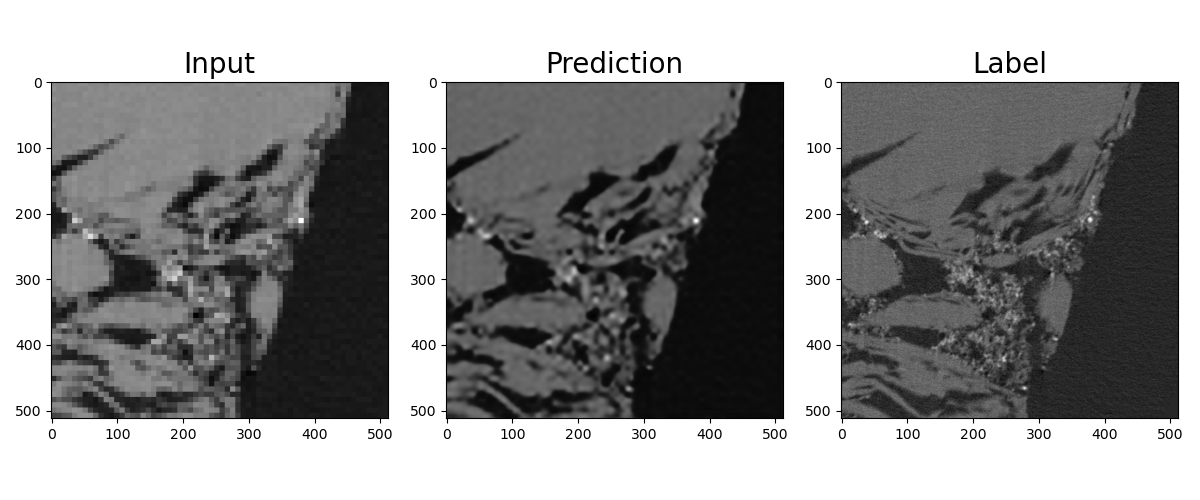
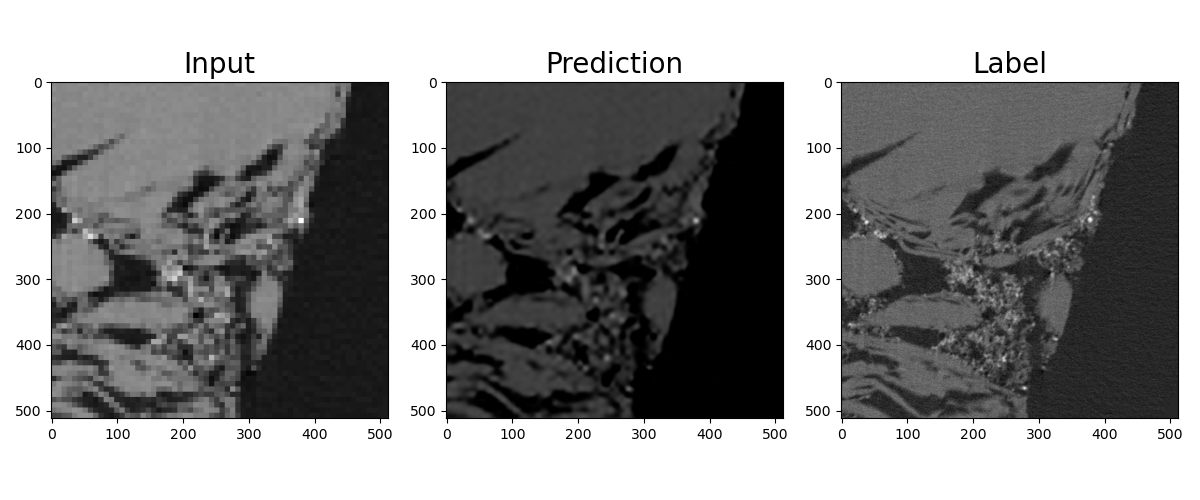
Update and clear the unused package

Changed region(s): [[0.37, 0.15, 0.6167, 0.84]]

diff --git a/utilities.py b/utilities.py
@@ -2,8 +2,7 @@ import os
 import torch 
 import torch.nn as nn
 import matplotlib.pyplot as plt
-import hydra
-from omegaconf import DictConfig, ListConfig, OmegaConf
+from omegaconf import DictConfig, OmegaConf
 import lightning as L
 from lightning.pytorch.callbacks import Callback
 
@@ -91,7 +90,9 @@ def plot_img(predictions, pred_dataloader):
             pred.append(img)
 
     input, label = prepare_data.check_dataloader(pred_dataloader)
-
+    
+    vmin = 0.2
+    vmax = 0.9
     if len(pred) == len(input):
         for i in range(len(pred)):
             
@@ -100,7 +101,7 @@ def plot_img(predictions, pred_dataloader):
             ax[0].imshow(input[i], cmap='gray')
             title = ax[0].set_title('Input')
             title.set_fontsize(20)
-            ax[1].imshow(pred[i], cmap='gray')
+            ax[1].imshow(pred[i], cmap='gray', vmin = vmin, vmax = vmax)
             title = ax[1].set_title('Prediction')
             title.set_fontsize(20)
             ax[2].imshow(label[i], cmap='gray')

diff --git a/prediction.py b/prediction.py
@@ -1,17 +1,5 @@
-import os
-import torch
-import torch.nn as nn
-import torch.optim as optim
-import torch.utils.data as data_utils
-from torch.utils.data import DataLoader
 import pytorch_lightning as L
-from omegaconf import DictConfig, ListConfig, OmegaConf
-from loguru import logger
-import matplotlib.pyplot as plt
-import time
 
-from torchvision import transforms
-from typing import Any, Tuple, Union, List, Sequence
 
 from source.BaseDataset import *
 from source.data_utils import *
@@ -27,7 +15,7 @@ if __name__ == "__main__":
 
     # Data
     subset, pred_loader = pred_data(train_cfg, preprocess_cfgs)
-    
+
 
     # Load model
 

diff --git a/train.py b/train.py
@@ -1,19 +1,8 @@
-import argparse
-import os
-import copy
-import numpy as np
-
-import torch
-from torch import nn, tensor
-import torch.optim as optim
-import torch.backends.cudnn as cudnn
 from omegaconf import DictConfig, ListConfig, OmegaConf
-from tqdm import tqdm
 import lightning as L
 from lightning.pytorch.callbacks import Callback
 from lightning.pytorch.callbacks import LearningRateMonitor
 
-import matplotlib.pyplot as plt
 
 from model.unet.ConvUNet import *
 from source.data_utils import *

diff --git a/source/BaseDataset.py b/source/BaseDataset.py
@@ -3,12 +3,10 @@ from omegaconf import DictConfig, ListConfig, OmegaConf
 from typing import Tuple, Optional, List, Union
 import torch
 from pathlib import Path
-from collections import defaultdict
 from natsort import natsorted
 
 from torchvision.io import read_image, ImageReadMode
 from torch.utils.data import Dataset as DS
-from torch.utils.data import DataLoader
 from transform.Transforms import Transforms
 from preprocess.Preprocessor import Preprocessor
 

diff --git a/config.py b/config.py
@@ -1,0 +1,11 @@
+import hydra
+from omegaconf import DictConfig, OmegaConf
+
+@hydra.main(version_base=None, config_path="configs")
+def train_config(cfg: DictConfig) -> None:
+    print(OmegaConf.to_yaml(cfg))
+    
+
+
+if __name__ == "__main__":
+    train_config()

diff --git a/model/unet/ConvUNet.py b/model/unet/ConvUNet.py
@@ -1,6 +1,5 @@
 from typing import Any, Tuple, Union, List, Sequence
 from loguru import logger
-from omegaconf import DictConfig
 import lightning as L
 from timm.scheduler.scheduler import Scheduler
 from torch.optim import Optimizer

diff --git a/source/data_utils.py b/source/data_utils.py
@@ -1,4 +1,3 @@
-import imp
 import multiprocessing
 
 from numpy import block
